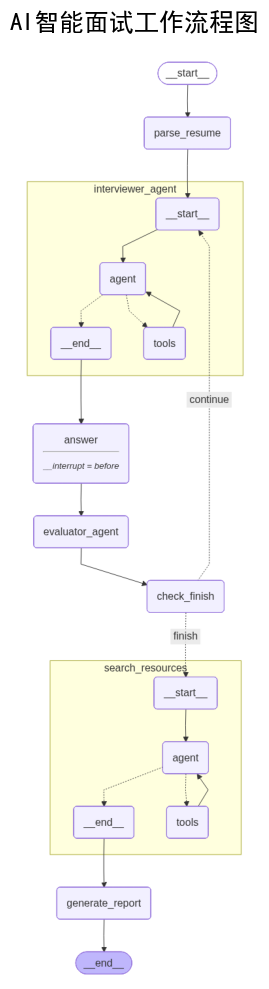
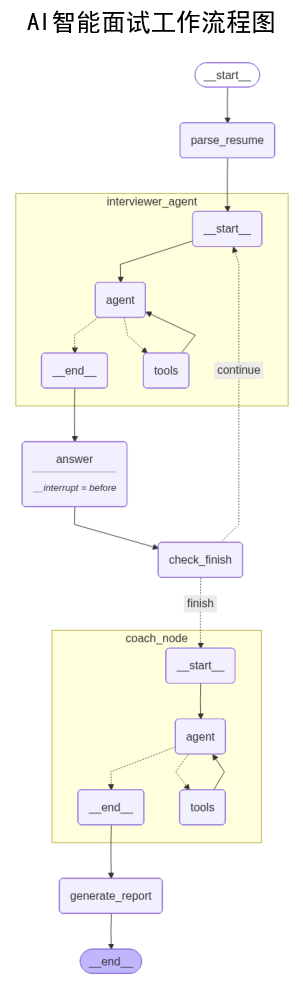
更新代码

diff --git a/backend/graph/agents/coach_agent.py b/backend/graph/agents/coach_agent.py
@@ -9,50 +9,38 @@ from backend.graph.tools.coach_tools import coach_tools
 
 
 # Agent 系统提示词
-COACH_AGENT_PROMPT = """你是一位资深技术教练，专门负责为候选人搜索学习资源。
+COACH_AGENT_PROMPT = """你是一位面试教练和资源推荐专家。
 
 ## 🎯 你的任务
-分析候选人的面试表现，找出2-3个主要技术不足，并为每个不足搜索真实的学习资源。
+阅读用户的**面试记录（问题与回答）**，分析候选人在哪些技术点上表现薄弱，并针对性地搜索学习资源。
 
-## 🛠 可用工具
-- **search_learning_resources(topic)**: 联网搜索学习资源（书籍、课程、教程等）
-  - 工具会返回 Markdown 格式的链接：`[标题](URL)`
-  - 你必须**原样保留**这些链接格式
+## 📋 工作流程 (Step-by-Step)
+1. **分析面试记录**：
+   - 仔细阅读 Q&A。
+   - 找出候选人回答错误、模糊或承认不会的 2-3 个关键技术点（Topic）。
+2. **执行搜索**：
+   - 针对每一个 Topic，**必须调用** `search_learning_resources(topic)` 工具。
+   - 不要自己编造推荐，必须用搜到的真实链接。
+3. **输出结果**：
+   - 将工具返回的 Markdown 链接原样输出。
 
-## 📋 工作流程
-1. **分析不足**：根据简历和面试问答，找出候选人的2-3个主要技术薄弱点
-2. **搜索资源**：对每个薄弱点，**必须调用** `search_learning_resources` 工具搜索学习资源
-3. **整理输出**：将搜索结果**原样复制**，保留所有链接格式
+## 🛠 必须使用的工具
+- **search_learning_resources(topic)**
+  - 系统强制要求调用。
 
-## ⚠ 核心要求
-1. **必须调用工具**：不要凭记忆推荐资源，必须使用工具搜索真实资源
-2. **每个不足都要搜索**：找出几个不足，就调用几次工具
-3. **保留链接格式**：工具返回的 `[标题](URL)` 格式必须原样保留，不要改成纯文本
+## 💡 行为示例
+**User**: 
+"面试记录：
+Q: Redis持久化有哪些？
+A: 我不太清楚具体细节..."
+**Assistant**:
+*(思考: 候选人没答上来 Redis 持久化，这是一个不足)*
+**[调用工具]** search_learning_resources("Redis 持久化机制")
+**[输出结果]** ...（工具返回的内容）
 
-## 💡 输出格式
-请按以下格式输出：
-
-### 候选人主要不足
-1. [不足1]
-2. [不足2]
-3. [不足3]
-
-### 学习资源推荐
-
-#### 不足1：[具体描述]
-[工具搜索结果 - 原样复制，保留所有 Markdown 链接]
-
-#### 不足2：[具体描述]
-[工具搜索结果 - 原样复制，保留所有 Markdown 链接]
-
-#### 不足3：[具体描述]
-[工具搜索结果 - 原样复制，保留所有 Markdown 链接]
-
-## 🔥 重要提醒
-- 你的任务只是搜索资源，不需要生成完整报告
-- 必须调用工具，不要自己编造资源
-- **必须保留工具返回的 `[标题](URL)` 链接格式**，不要转换成纯文本
-- 直接复制粘贴工具返回的内容，不要重新整理
+## 🛑 核心要求
+- **不要** 只是简单的罗列问题，要提炼出背后的技术点（如 "Redis RDB/AOF" 而不是 "第七题"）。
+- **必须** 联网搜索，确保资源真实有效。
 """
 
 

diff --git a/backend/graph/workflow/interview_workflow.py b/backend/graph/workflow/interview_workflow.py
@@ -10,9 +10,10 @@ from backend.graph.nodes import (
     parse_resume_node,       # 解析简历节点
     ask_question_node,       # 出题节点
     answer_node,             # 回答节点（中断点）
-    evaluate_node,           # 评分节点
+
     check_finish_node,       # 检查是否结束节点
-    search_resources_node,   # 搜索学习资源节点
+    check_finish_node,       # 检查是否完成所有轮次
+    coach_node,              # 搜索学习资源节点（Coach Agent）
     generate_report_node     # 生成报告节点
 )
 
@@ -32,9 +33,8 @@ def create_interview_graph():
     workflow.add_node("parse_resume", parse_resume_node)             # 简历解析节点
     workflow.add_node("interviewer_agent", ask_question_node)        # 面试官 Agent
     workflow.add_node("answer", answer_node)                         # 用户回答节点
-    workflow.add_node("evaluator_agent", evaluate_node)              # 评价 Agent（生成反馈）
     workflow.add_node("check_finish", check_finish_node)             # 检查是否完成所有轮次
-    workflow.add_node("search_resources", search_resources_node)     # 搜索学习资源节点（Coach Agent）
+    workflow.add_node("coach_node", coach_node)                      # 搜索学习资源节点（Coach Agent）
     workflow.add_node("generate_report", generate_report_node)       # 生成最终报告节点
         
 
@@ -48,11 +48,8 @@ def create_interview_graph():
     # 面试官 Agent -> 回答：出题后等待用户回答
     workflow.add_edge("interviewer_agent", "answer")
     
-    # 回答 -> 评价：用户回答后由评价 Agent 生成反馈
-    workflow.add_edge("answer", "evaluator_agent")
-    
-    # 评价 -> 检查：生成反馈后检查是否完成所有轮次
-    workflow.add_edge("evaluator_agent", "check_finish")
+    # 回答 -> 检查：用户回答后直接检查是否完成所有轮次（移除即时评价）
+    workflow.add_edge("answer", "check_finish")
     
     # ========== 添加条件边（根据状态动态决策）==========
     # 从 check_finish 节点根据 is_finished 状态决定下一步
@@ -62,12 +59,12 @@ def create_interview_graph():
         lambda state: "finish" if state['is_finished'] else "continue",
         {
             "continue": "interviewer_agent",    # 未完成 -> 继续下一轮出题（面试官 Agent）
-            "finish": "search_resources"        # 已完成 -> 搜索学习资源（Coach Agent）
+            "finish": "coach_node"              # 已完成 -> 搜索学习资源（Coach Agent）
         }
     )
 
     # 搜索资源 -> 生成报告
-    workflow.add_edge("search_resources", "generate_report")
+    workflow.add_edge("coach_node", "generate_report")
     
     # 生成报告 -> END，作为整个流程的终点
     workflow.add_edge("generate_report", END)

diff --git a/backend/graph/nodes/ask_question_node.py b/backend/graph/nodes/ask_question_node.py
@@ -30,7 +30,7 @@ def ask_question_node(state: InterviewState) -> InterviewState:
     try:
         # 构建历史问题文本
         history_text = "\n".join([
-            f"{i+1}. {h.get('question', '')}" 
+            f"{i+1}. 问: {h.get('question', '')}\n   答: {h.get('answer', '（未回答）')}"
             for i, h in enumerate(history)
         ]) if history else "无"
         
@@ -83,8 +83,7 @@ def ask_question_node(state: InterviewState) -> InterviewState:
         # 将问题添加到历史记录
         history_entry = {
             "question": question,
-            "answer": "",
-            "feedback": ""
+            "answer": ""
         }
         
         new_history = state.get('history', []).copy()
@@ -93,6 +92,7 @@ def ask_question_node(state: InterviewState) -> InterviewState:
         # 更新状态
         new_state = state.copy()
         new_state['history'] = new_history
+        new_state['round'] = round_num
         return new_state
             
     except Exception as e:
@@ -103,14 +103,15 @@ def ask_question_node(state: InterviewState) -> InterviewState:
         fallback_question = f"请介绍一下你最擅长的技术领域，并举例说明在项目中的应用。"
         
         history_entry = {
-            "question": fallback_question,
-            "answer": "",
-            "feedback": ""
+            "question": question,
+            "answer": ""
         }
         
         new_history = state.get('history', []).copy()
         new_history.append(history_entry)
         
+        # 更新状态
         new_state = state.copy()
         new_state['history'] = new_history
+        new_state['round'] = round_num
         return new_state

diff --git a/backend/routes/interview_routes.py b/backend/routes/interview_routes.py
@@ -110,7 +110,7 @@ async def start_interview(
             resume_text=result.get('resume_text', ''),
             target_position=result.get('target_position', '未识别'),
             question=question,
-            round=result.get('round', 0) + 1,
+            round=result.get('round', 0),
             resume_file_url=resume_file_url
         )
     
@@ -171,23 +171,13 @@ async def submit_answer(
         # 2. 恢复工作流执行
         result = workflow.invoke(None, config)
         
-        # 3. 获取当前轮次的反馈（从 history 中获取最新的有反馈的记录）
-        history = result.get('history', [])
-        # 从后往前查找，找到有反馈的记录（因为如果未结束，最后一条可能是新问题）
-        current_feedback = ''
-        for entry in reversed(history):
-            if entry.get('feedback'):
-                current_feedback = entry.get('feedback', '')
-                break
-        
-        # 4. 构建响应
+        # 3. 构建响应
         is_finished = result.get('is_finished', False)
         
         response = InterviewStatusResponse(
             thread_id=request.thread_id,
             is_finished=is_finished,
-            feedback=current_feedback,
-            round=result.get('round', 0) + (0 if is_finished else 1)
+            round=result.get('round', 0)
         )
         
         if is_finished:

diff --git a/backend/graph/nodes/coach_node.py b/backend/graph/nodes/coach_node.py
@@ -8,17 +8,16 @@ from backend.graph.state import InterviewState
 from backend.graph.agents import coach_agent
 
 
-def search_resources_node(state: InterviewState) -> InterviewState:
+def coach_node(state: InterviewState) -> InterviewState:
     """
     搜索学习资源节点：
     1. 分析面试记录，提取候选人的主要不足
     2. 调用 Coach Agent 搜索学习资源
     """
-    resume_text = state.get('resume_text', '')
     history = state.get('history', [])
     
-    if not resume_text or not history:
-        print("警告: 简历文本或历史记录为空，跳过搜索")
+    if not history:
+        print("警告: 历史记录为空，跳过搜索")
         new_state = state.copy()
         new_state['learning_resources'] = "无搜索结果"
         return new_state
@@ -32,9 +31,6 @@ def search_resources_node(state: InterviewState) -> InterviewState:
         
         # 构建简短清晰的任务提示
         user_message = f"""请分析以下面试记录，找出候选人的2-3个主要技术不足，并为每个不足搜索学习资源。
-
-## 候选人简历
-{resume_text}
 
 ## 面试问答记录
 {qa_summary}

diff --git a/backend/graph/tools/coach_tools.py b/backend/graph/tools/coach_tools.py
@@ -28,11 +28,11 @@ def search_learning_resources(topic: str) -> str:
         print(f"[search_learning_resources] 正在搜索: {topic} 学习资源")
         tavily = TavilyClient(api_key=TAVILY_API_KEY)
         
-        # 构建搜索查询 - 搜索学习资源
-        query = f"{topic} 学习教程 书籍推荐 在线课程"
+        # 直接使用此 Topic 进行搜索
+        query = topic
         
         # 执行搜索
-        response = tavily.search(query=query, search_depth="advanced", max_results=5)
+        response = tavily.search(query=query, search_depth="advanced", max_results=2)
         results = response.get("results", [])
         
         if results:

diff --git a/backend/graph/nodes/__init__.py b/backend/graph/nodes/__init__.py
@@ -1,17 +1,17 @@
 from .parse_resume_node import parse_resume_node
 from .ask_question_node import ask_question_node
 from .answer_node import answer_node
-from .evaluate_node import evaluate_node
+
 from .check_finish_node import check_finish_node
-from .search_resources_node import search_resources_node
+from .coach_node import coach_node
 from .generate_report_node import generate_report_node
 
 __all__ = [
     "parse_resume_node",
     "ask_question_node",
     "answer_node",
-    "evaluate_node",
+
     "check_finish_node",
-    "search_resources_node",
+    "coach_node",
     "generate_report_node"
 ]

diff --git a/backend/graph/state/interview_state.py b/backend/graph/state/interview_state.py
@@ -26,8 +26,8 @@ class InterviewState(TypedDict):
     
     # ========== 面试记录 ==========
     # 存储所有轮次的问答记录
-    # 每条记录包含：问题、回答、反馈（包含评价和改进建议）
-    history: List[Dict[str, str]]  # [{"question": "", "answer": "", "feedback": ""}]
+    # 每条记录包含：问题、回答
+    history: List[Dict[str, str]]  # [{"question": "", "answer": ""}]
     
     # ========== 学习资源 ==========
     learning_resources: str  # Coach Agent 搜索到的学习资源

diff --git a/backend/models/schemas.py b/backend/models/schemas.py
@@ -32,7 +32,6 @@ class InterviewStatusResponse(BaseModel):
     thread_id: str = Field(..., description="会话ID")
     is_finished: bool = Field(..., description="是否结束")
     question: Optional[str] = Field(None, description="新问题（如果未结束）")
-    feedback: Optional[str] = Field(None, description="上一轮反馈")
     report: Optional[str] = Field(None, description="最终报告（如果已结束）")
     round: int = Field(..., description="当前轮次")
 

diff --git a/backend/graph/nodes/generate_report_node.py b/backend/graph/nodes/generate_report_node.py
@@ -23,7 +23,7 @@ def generate_report_node(state: InterviewState) -> InterviewState:
     try:
         # 准备完整的面试记录
         history_text = "\n\n".join([
-            f"**问题 {i+1}**：{h.get('question', '')}\n**回答**：{h.get('answer', '')}\n**反馈**：{h.get('feedback', '')}"
+            f"问题 {i+1}：{h.get('question', '')}\n回答：{h.get('answer', '')}"
             for i, h in enumerate(history)
         ])
         

diff --git a/backend/models/interview_record.py b/backend/models/interview_record.py
@@ -34,7 +34,7 @@ class InterviewRecord(Base):
     resume_text = Column(Text, nullable=False, comment="简历文本内容")
     
     # 面试记录（JSON格式）
-    # 格式: [{"question": "", "answer": "", "feedback": ""}, ...]
+    # 格式: [{"question": "", "answer": ""}, ...]
     history = Column(JSON, nullable=False, default=list, comment="面试记录（JSON格式）")
     
     # 最终面试报告

diff --git a/backend/graph/nodes/answer_node.py b/backend/graph/nodes/answer_node.py
@@ -11,5 +11,6 @@ def answer_node(state: InterviewState) -> InterviewState:
     回答节点：接收用户答案
     注意：保留是为了中断机制的兼容性
     """
+    print("[answer_node] 收到用户回答：", state.get('answer', ''))
     # 答案已经在 state 中了，直接返回
     return state
